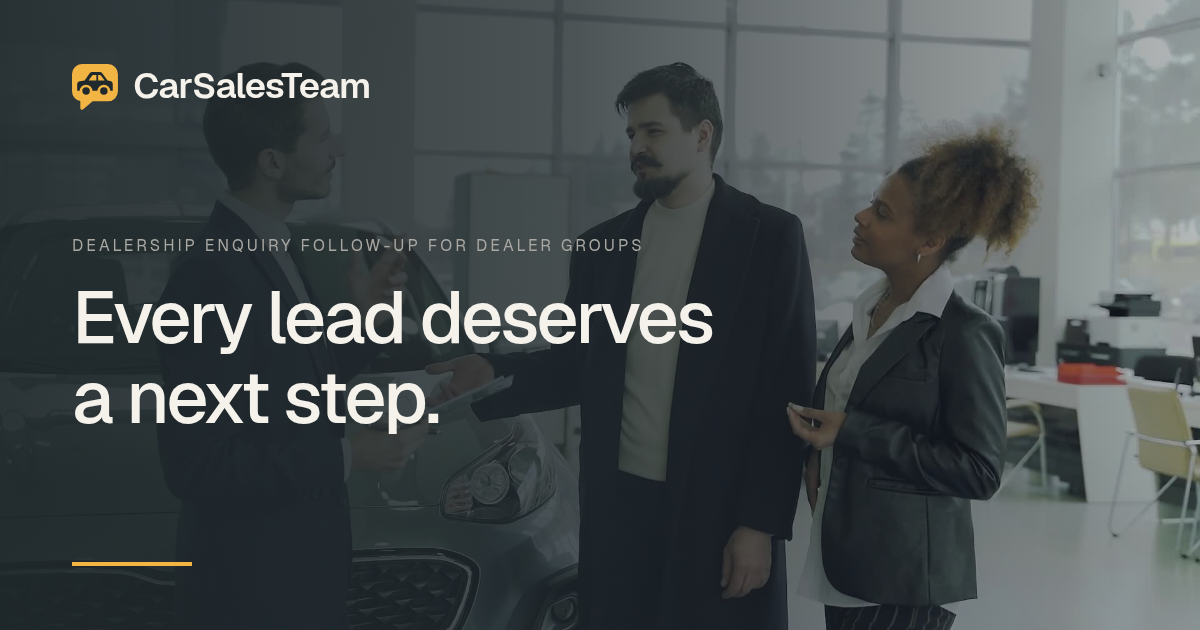
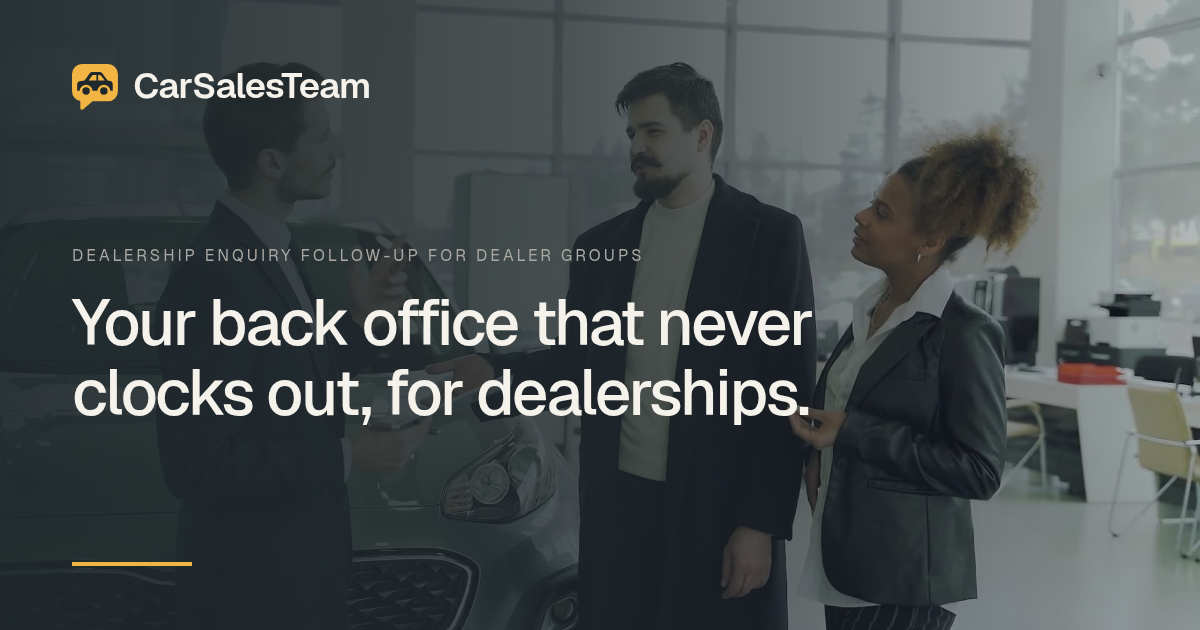
Hero headline: Your back office that never clocks out, for dealerships. (#16)
* Hero headline: Your background staff for dealerships.

* Hero headline: Your back office that never clocks out, for dealerships.

---------

Changed region(s): [[0.0617, 0.4524, 0.6783, 0.6937], [0.0617, 0.3619, 0.5242, 0.4222]]

diff --git a/public/styles.css b/public/styles.css
@@ -70,7 +70,7 @@ h3{font:500 27px/1.3 var(--font);letter-spacing:-.6px;margin:15px 0}
 .hero-media video.is-playing{opacity:1}
 .hero-wash{position:absolute;inset:0;background:linear-gradient(90deg,#20292ca8 0%,#20292c55 58%,#20292c2e),linear-gradient(0deg,var(--bg) 0%,transparent 27%);z-index:-1}
 .hero-content{width:100%;display:grid;grid-template-columns:minmax(0,1fr) minmax(0,500px);gap:48px;align-items:center}
-.hero h1{font:500 clamp(48px,5.2vw,78px)/1.1 var(--font);letter-spacing:-2.9px;margin:25px 0;max-width:760px}
+.hero h1{font:500 clamp(40px,min(5.2vw,calc((100vw - 644px)*.085)),64px)/1.1 var(--font);letter-spacing:-2.9px;margin:25px 0;max-width:760px}
 .hero h1 em{font-style:normal;display:block}
 .intro{color:#dfdcd6;font-size:17px;line-height:1.7;max-width:590px}
 .actions{display:flex;gap:15px;flex-wrap:wrap;margin:28px 0 22px}
@@ -205,7 +205,7 @@ section.page{padding:190px 0 110px}
   .wrap{padding:0 32px}
   .hero-foot{padding:0 32px}
   .hero-content{gap:36px;grid-template-columns:minmax(0,1fr) minmax(0,440px)}
-  .hero h1{font-size:62px}
+  .hero h1{font-size:clamp(34px,calc((100vw - 540px)*.085),62px)}
   .hero-card{max-width:440px;padding:12px}
   .hero-card-request{font-size:17px}
   .desktop{gap:20px}
@@ -231,7 +231,7 @@ section.page{padding:190px 0 110px}
   .top.scrolled .nav{margin:0 12px;padding:8px 13px;min-height:57px}
   .hero{min-height:900px;min-height:100svh;padding:140px 0 110px;align-items:start}
   .hero-content{grid-template-columns:1fr;gap:30px}
-  .hero h1{font-size:clamp(43px,11vw,60px);letter-spacing:-1.7px;line-height:1.13;margin:22px 0}
+  .hero h1{font-size:min(60px,calc((100vw - 44px)*.085));letter-spacing:-1.7px;line-height:1.13;margin:22px 0}
   .hero .eyebrow{font-size:9px;letter-spacing:1.5px}
   .intro{font-size:14px;max-width:550px}
   .hero .micro{font-size:10px;max-width:500px}
@@ -294,7 +294,7 @@ section.page{padding:190px 0 110px}
 @media(max-width:400px){
   .hero{padding-top:125px;min-height:940px}
   .brand small{display:none}
-  .hero h1{font-size:42px}
+  .hero h1{font-size:min(42px,calc((100vw - 44px)*.085))}
   .form-grid{grid-template-columns:1fr}
   .field.full{grid-column:auto}
   .hero-foot>span{max-width:140px}

diff --git a/scripts/make-images.py b/scripts/make-images.py
@@ -24,7 +24,7 @@ body{{margin:0;width:1200px;height:630px;font-family:Geist;color:#F5F2EB;backgro
 .in{{position:absolute;inset:0;padding:64px 72px;display:flex;flex-direction:column;justify-content:space-between}}
 .brand svg{{display:block;height:46px;width:300px}}
 .eyebrow{{font-size:16px;letter-spacing:3px;text-transform:uppercase;color:#aaa8a3;margin-bottom:22px}}
-h1{{font-weight:500;font-size:74px;line-height:1.08;letter-spacing:-2.8px;margin:0;max-width:820px}}
+h1{{font-weight:500;font-size:64px;line-height:1.08;letter-spacing:-2.4px;margin:0;max-width:900px;white-space:nowrap}}
 .bar{{width:120px;height:4px;background:#F2B544}}
 </style></head><body><div class="wash"></div><div class="in">
 <div class="brand">{LOGO}</div>
